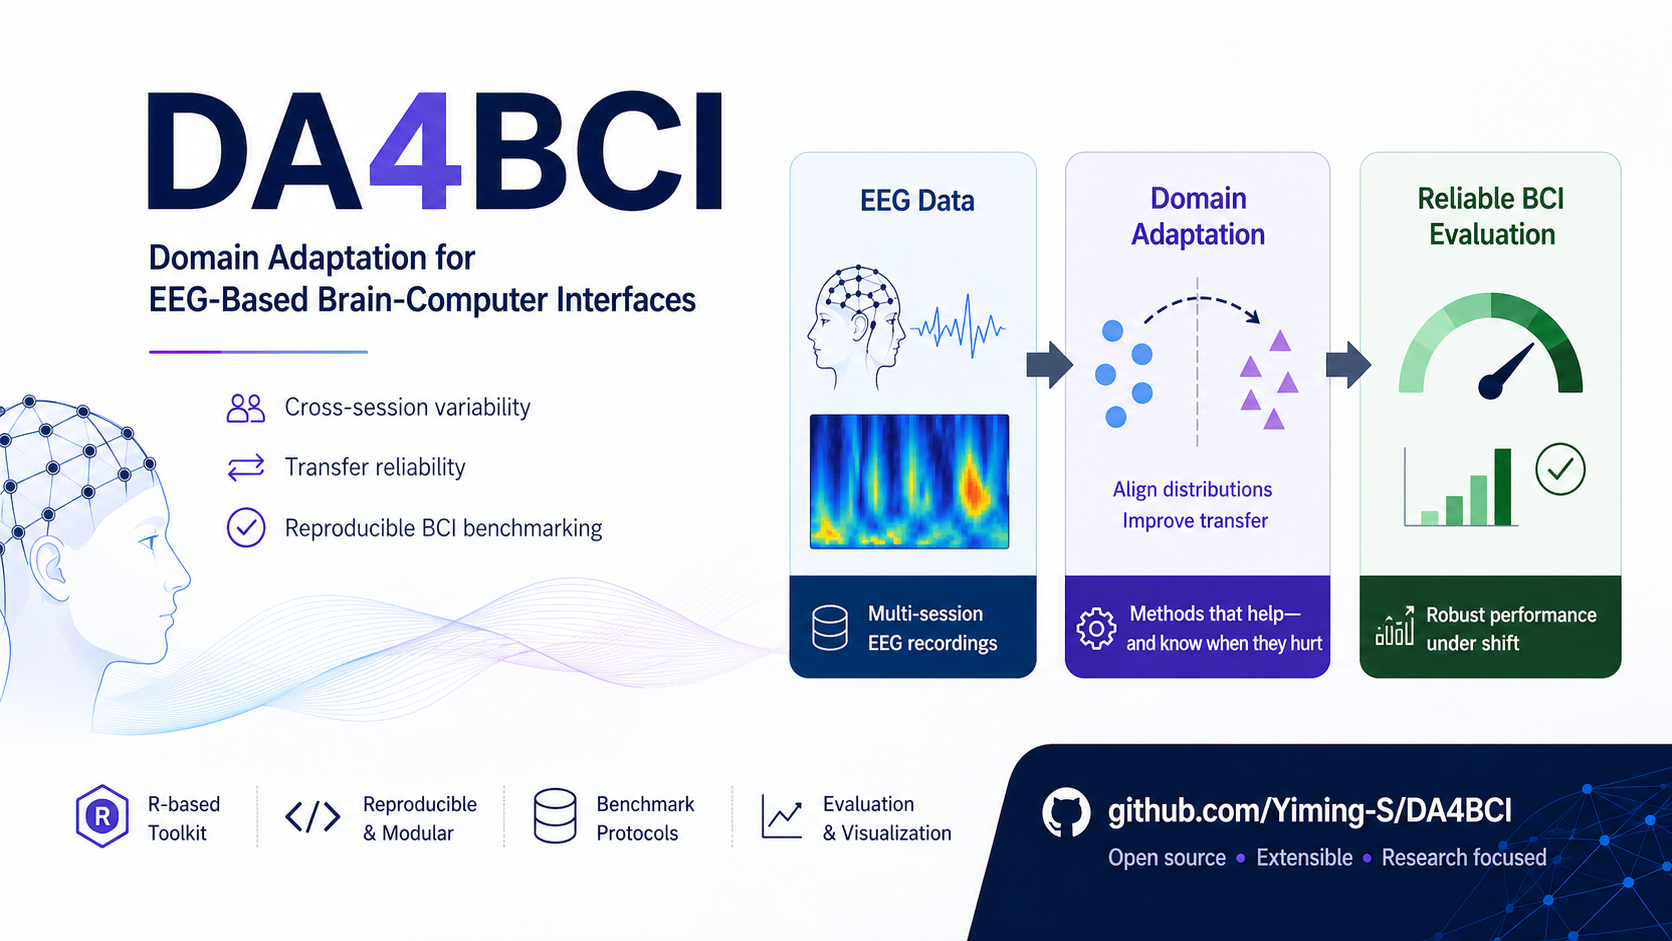
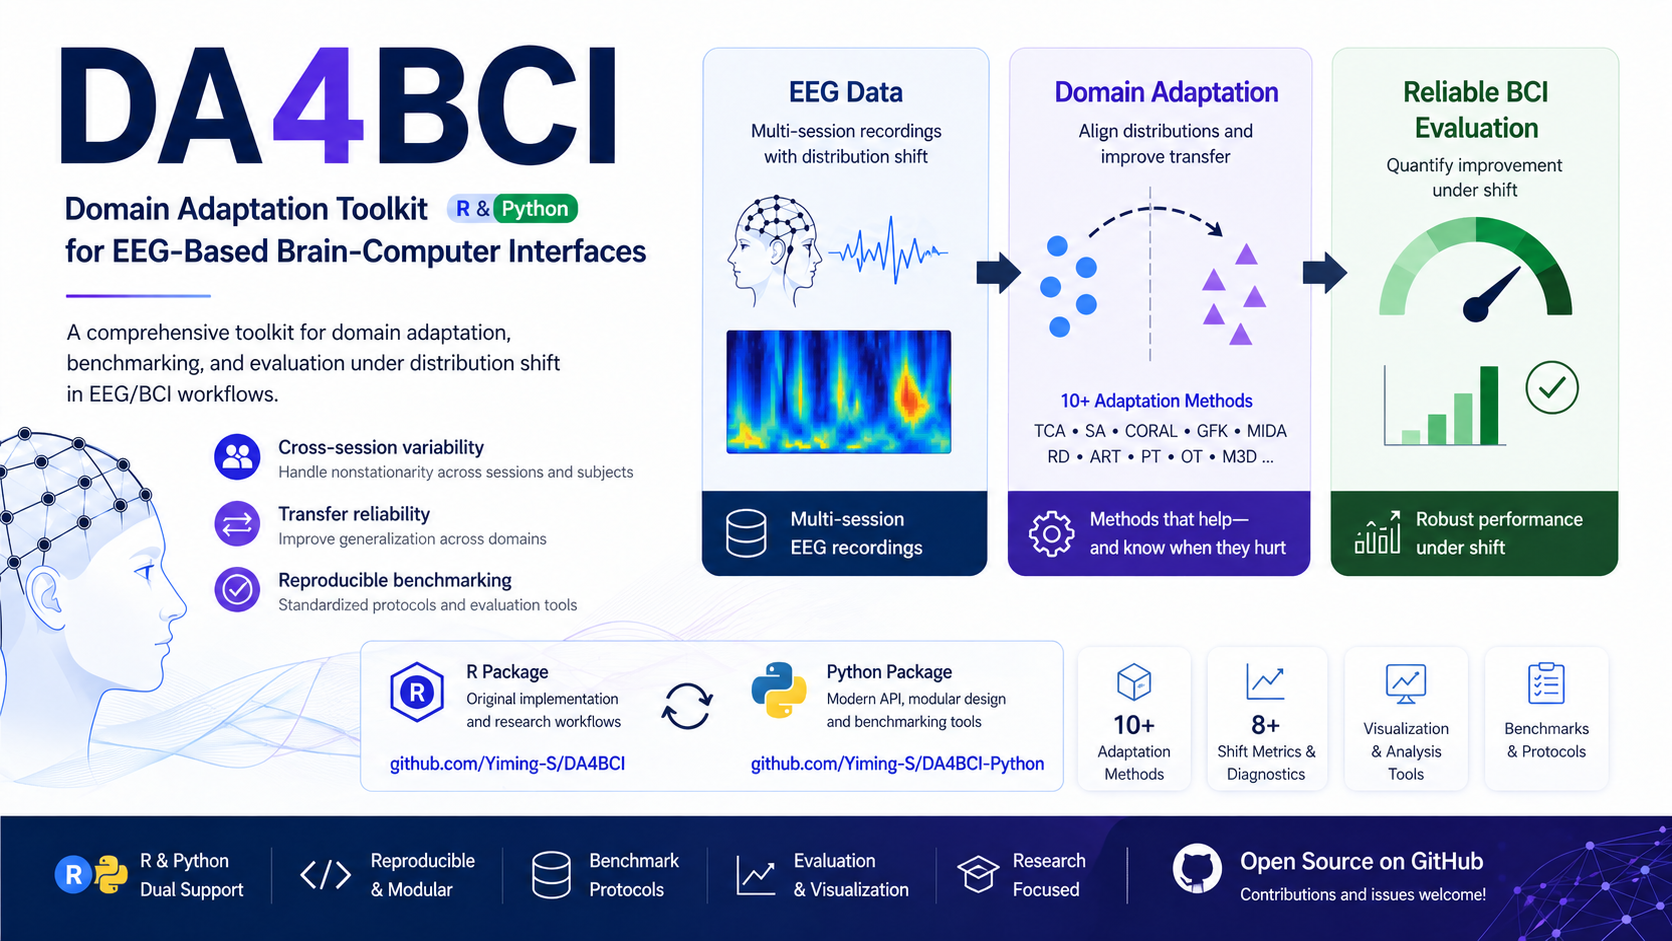
update

diff --git a/README.md b/README.md
@@ -1,46 +1,109 @@
 # DA4BCI
 
-**DA4BCI** is an R package that provides multiple domain adaptation methods tailored for EEG-based brain-computer interface (BCI) applications. It includes a unified interface for:
+**A Unified Framework for Domain Adaptation in EEG-based Brain-Computer Interfaces.**
 
-- **TCA (Transfer Component Analysis)**
-- **SA (Subspace Alignment)**
-- **MIDA (Maximum Independence Domain Adaptation)**
-- **RD (Riemannian Distance)**
-- **CORAL (Correlation Alignment)**
-- **GFK (Geodesic Flow Kernel)**
-- **ART (Aligned Riemannian Transport)**
-- **PT (Parallel Transport)**
-- **M3D (Manifold-based Multi-step Domain Adaptation)**
-- **OT (Entropy-Regularized OT (Sinkhorn–Knopp) with Barycentric Mapping)**
+<p align="center">
+  <img src="DA4BCI.png" alt="DA4BCI overview" width="900">
+</p>
 
-These methods help align EEG data from different sessions or subjects, mitigating distributional shifts and enabling more robust learning.
+R implementation of DA4BCI — a comprehensive toolkit of domain adaptation methods, distance metrics, and evaluation tools for EEG-based BCI applications. The package provides a unified interface to align EEG distributions across sessions or subjects, mitigating distributional shift and improving model robustness.
 
-## Distance Metrics and Evaluation
-
-Additionally, DA4BCI implements various distance metrics and evaluation tools to quantitatively assess the effectiveness of domain adaptation:
-
-- **Euclidean Distance Matrix:** Efficient computation of pairwise distances between datasets.
-- **Wasserstein Distance:** Measures the minimal "cost" required to transform one distribution into another, emphasizing distribution alignment.
-- **Maximum Mean Discrepancy (MMD):** Assesses differences between distributions using kernel methods, ideal for detecting subtle distributional shifts.
-- **Energy Distance:** Captures differences between empirical distributions based on pairwise distances, useful for validating adaptation performance.
-- **Mahalanobis distance:** Whitening-aware distances using an estimated covariance (with optional shrinkage); sensitive to correlated feature scales.  
-
-The `distanceSummary` function conveniently summarizes these metrics, providing a quick and comprehensive evaluation framework for domain adaptation results.
+> Looking for the Python version? See [DA4BCI-Python](https://github.com/Yiming-S/DA4BCI-Python).
 
 ## Installation
 
-1. Make sure you have R 3.5.0 or later.
-2. In R, install the **remotes** (or **devtools**) package if you haven’t yet:
-   ```r
-   install.packages("remotes")
-   remotes::install_github("Yiming-S/DA4BCI", force = TRUE)
-   ```
+Requires R >= 3.5.0.
 
-## Choosing a Method
+```r
+install.packages("remotes")
+remotes::install_github("Yiming-S/DA4BCI", force = TRUE)
+```
 
-For a practical method-selection guide organized by shift type, data
-representation, supervision level, and risk, see
-[Algorithm Selection Guide](ALGORITHM_SELECTION_GUIDE.md).
+## Quick Start
 
+```r
+library(DA4BCI)
 
-   
+# Simulate EEG-like source and target features
+set.seed(1)
+source_data <- matrix(rnorm(100 * 20), 100, 20)
+target_data <- matrix(rnorm(100 * 20) + 0.5, 100, 20)
+
+# Apply domain adaptation (unified interface)
+res <- domain_adaptation(
+  source_data,
+  target_data,
+  method  = "coral",
+  control = list(lambda = 1e-5)
+)
+
+adapted_source <- res$weighted_source_data
+adapted_target <- res$target_data
+
+# Quantify distribution alignment
+distanceSummary(adapted_source, adapted_target, format = "table")
+```
+
+## Available Methods
+
+All methods are dispatched through the unified `domain_adaptation()` function or can be called directly.
+
+| Method    | Function                       | Description                                                |
+| --------- | ------------------------------ | ---------------------------------------------------------- |
+| **TCA**   | `domain_adaptation_tca`        | Transfer Component Analysis                                |
+| **SA**    | `domain_adaptation_sa`         | Subspace Alignment                                         |
+| **CORAL** | `domain_adaptation_coral`      | Correlation Alignment                                      |
+| **GFK**   | `domain_adaptation_gfk`        | Geodesic Flow Kernel                                       |
+| **MIDA**  | `domain_adaptation_mida`       | Maximum Independence Domain Adaptation                     |
+| **RD**    | `domain_adaptation_riemannian` | Riemannian Distance alignment                              |
+| **ART**   | `domain_adaptation_art`        | Aligned Riemannian Transport                               |
+| **PT**    | `domain_adaptation_pt`         | Parallel Transport on the SPD manifold                     |
+| **OT**    | `domain_adaptation_ot`         | Entropy-regularized Optimal Transport (Sinkhorn)           |
+| **M3D**   | `domain_adaptation_m3d`        | Manifold-based Multi-step Domain Adaptation                |
+
+## Evaluation Tools
+
+DA4BCI includes a set of distance metrics for quantitatively assessing the effect of adaptation:
+
+- **Euclidean Distance Matrix** — efficient pairwise distances between datasets.
+- **Wasserstein Distance** — minimal transport cost between distributions.
+- **Maximum Mean Discrepancy (MMD)** — kernel-based discrepancy, sensitive to subtle shifts.
+- **Energy Distance** — empirical-distribution discrepancy from pairwise distances.
+- **Mahalanobis Distance** — whitening-aware distance with optional shrinkage covariance.
+
+The `distanceSummary()` function bundles these into a single table for quick before/after comparison.
+
+```r
+distanceSummary(
+  source_data,
+  target_data,
+  include = c("MMD", "Energy", "Wasserstein", "Mahalanobis"),
+  format  = "table"
+)
+```
+
+## Algorithm Selection
+
+For a practical method-selection guide organized by shift type, data representation, supervision level, and risk, see [ALGORITHM_SELECTION_GUIDE.md](ALGORITHM_SELECTION_GUIDE.md).
+
+Quick rules of thumb:
+
+- Start with `SA` and `CORAL` as fast linear baselines.
+- If covariance structure dominates, move to `PT` and `ART`; keep `RD` as a lightweight baseline.
+- If mismatch looks nonlinear or cluster-wise, try `OT`.
+- If you have reliable source labels and need class-aware refinement, try `M3D`.
+
+## Testing
+
+```r
+devtools::test()
+```
+
+## License
+
+MIT
+
+## Authors
+
+- Yiming Shen — [email redacted]
+- David Degras — [email redacted]